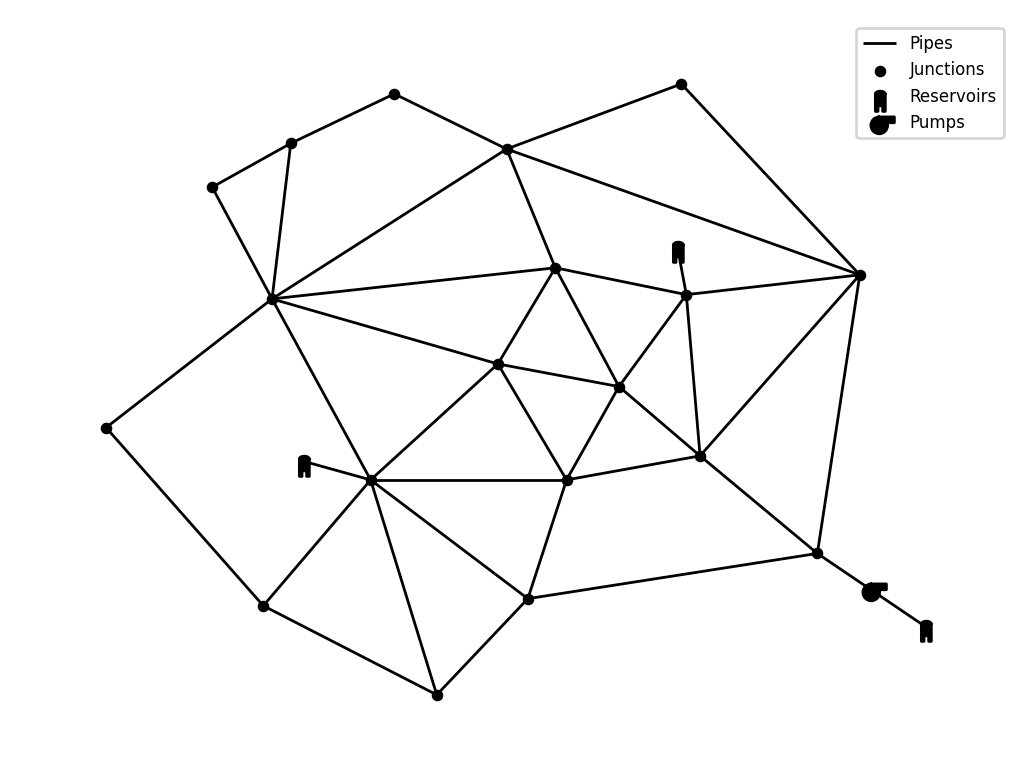
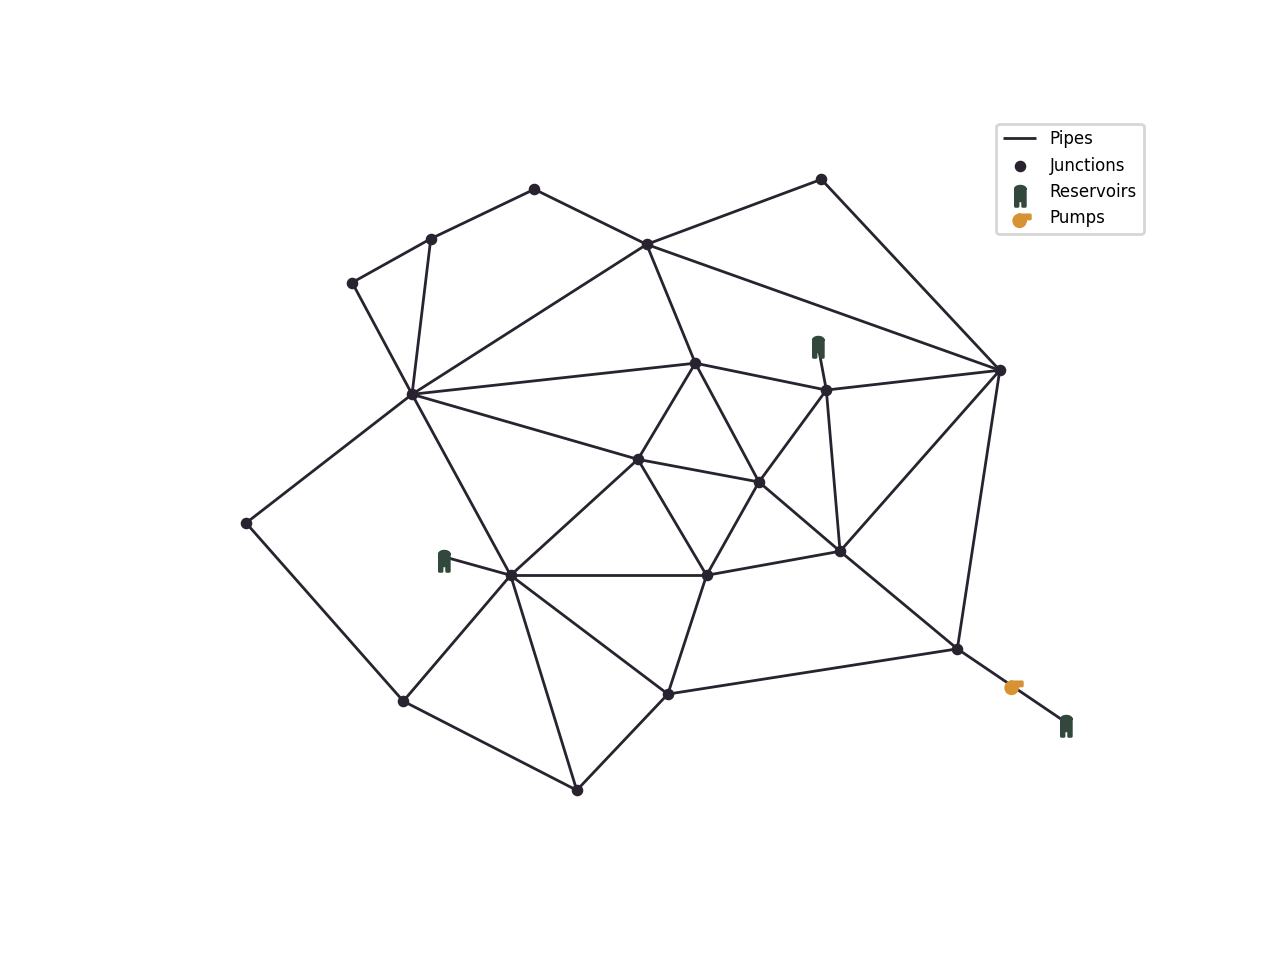
Adjusted documentation

diff --git a/epyt_flow/visualization/scenario_visualizer.py b/epyt_flow/visualization/scenario_visualizer.py
@@ -626,7 +626,7 @@ class ScenarioVisualizer:
     def color_links(
             self, data: Optional[Union[ScadaData, np.ndarray]] = None,
             parameter: str = 'flow_rate', statistic: str = 'mean',
-            pit: Optional[Union[int, Tuple[int]]] = None,
+            pit: Optional[Union[int, Tuple[int, int]]] = None,
             colormap: str = 'coolwarm',
             intervals: Optional[Union[int, List[Union[int, float]]]] = None,
             conversion: Optional[dict] = None,
@@ -825,7 +825,7 @@ class ScenarioVisualizer:
     def color_tanks(
             self, data: Optional[Union[ScadaData, np.ndarray]] = None,
             statistic: str = 'mean',
-            pit: Optional[Union[int, Tuple[int]]] = None,
+            pit: Optional[Union[int, Tuple[int, int]]] = None,
             intervals: Optional[Union[int, List[Union[int, float]]]] = None,
             colormap: str = 'viridis', show_colorbar: bool = False) -> None:
         """
@@ -909,7 +909,7 @@ class ScenarioVisualizer:
     def color_valves(
             self, data: Optional[Union[ScadaData, np.ndarray]] = None,
             statistic: str = 'mean',
-            pit: Optional[Union[int, Tuple[int]]] = None,
+            pit: Optional[Union[int, Tuple[int, int]]] = None,
             intervals: Optional[Union[int, List[Union[int, float]]]] = None,
             colormap: str = 'viridis', show_colorbar: bool = False) -> None:
         """
@@ -995,8 +995,8 @@ class ScenarioVisualizer:
     def resize_links(
             self, data: Optional[Union[ScadaData, np.ndarray]] = None,
             parameter: str = 'flow_rate', statistic: str = 'mean',
-            line_widths: Tuple[int] = (1, 2),
-            pit: Optional[Union[int, Tuple[int]]] = None,
+            line_widths: Tuple[int, int] = (1, 2),
+            pit: Optional[Union[int, Tuple[int, int]]] = None,
             intervals: Optional[Union[int, List[Union[int, float]]]] = None,
             conversion: Optional[dict] = None) -> None:
         """

diff --git a/tests/test_visualization.py b/tests/test_visualization.py
@@ -92,13 +92,13 @@ def test_animation_sensor_config_labels():
 
 def test_custom_table_animation(setup_simulator):
     timesteps = 50
-    nodes = 444
+    links = 444
 
     t = np.linspace(0, 2 * np.pi, timesteps)
 
-    frequencies = np.linspace(1, 3, nodes)
-    phases = np.linspace(0, np.pi, nodes)
-    amplitudes = np.linspace(0.5, 1.5, nodes)
+    frequencies = np.linspace(1, 3, links)
+    phases = np.linspace(0, np.pi, links)
+    amplitudes = np.linspace(0.5, 1.5, links)
 
     custom_data_table = np.array([a * np.sin(f * t + p) for f, p, a in
                                   zip(frequencies, phases, amplitudes)]).T
@@ -114,14 +114,6 @@ def test_custom_table_animation(setup_simulator):
         vis.show_animation()
     else:
         vis.show_animation(return_animation=True)
-
-
-def test_color_scheme(setup_simulator):
-    vis = ScenarioVisualizer(setup_simulator, color_scheme=epanet_colors)
-    if SHOW_PLOTS:
-        vis.show_plot()
-    else:
-        vis.show_plot(suppress_plot=True)
 
 
 def test_color_scheme_serialization(setup_simulator):

diff --git a/docs/tut.visualization.rst b/docs/tut.visualization.rst
@@ -4,22 +4,23 @@
 Visualization
 *************
 
-This guide explains how to visualize water distribution networks using the :class:`~epyt_flow.simulation.scenario_visualizer.ScenarioVisualizer` class.
+This guide explains how to visualize water distribution networks using the :class:`~epyt_flow.visualization.scenario_visualizer.ScenarioVisualizer` class.
 
-The :class:`~epyt_flow.simulation.scenario_visualizer.ScenarioVisualizer` class allows for generating plots, animations and customizations, according to the :class:`~epyt_flow.simulation.scada_data.ScadaData` generated by the :class:`~epyt_flow.simulation.scenario_simulator.ScenarioSimulator`.
+The :class:`~epyt_flow.visualization.scenario_visualizer.ScenarioVisualizer` class allows for generating plots, animations and customizations, according to the :class:`~epyt_flow.simulation.scada_data.ScadaData` generated by the :class:`~epyt_flow.simulation.scenario_simulator.ScenarioSimulator`.
 
 
 Setup and basic visualization
 -----------------------------
 
-In order to setup the :class:`~epyt_flow.simulation.scenario_visualizer.ScenarioVisualizer`, first a network configuration needs to be provided (here via :meth:`~epyt_flow.data.networks.load_anytown`), which then is given to the :class:`~epyt_flow.simulation.scenario_simulator.ScenarioSimulator`.
+In order to setup the :class:`~epyt_flow.visualization.scenario_visualizer.ScenarioVisualizer`, first a network configuration needs to be provided (here via :meth:`~epyt_flow.data.networks.load_anytown`), which then is given to the :class:`~epyt_flow.simulation.scenario_simulator.ScenarioSimulator`.
 
-The :class:`~epyt_flow.simulation.scenario_simulator.ScenarioSimulator` instance is then provided to the :class:`~epyt_flow.simulation.scenario_visualizer.ScenarioVisualizer`.
+The :class:`~epyt_flow.simulation.scenario_simulator.ScenarioSimulator` instance is then provided to the :class:`~epyt_flow.visualization.scenario_visualizer.ScenarioVisualizer`.
 
 .. code-block:: python
 
     from epyt_flow.data.networks import load_anytown
-    from epyt_flow.simulation import ScenarioSimulator, ScenarioVisualizer
+    from epyt_flow.simulation import ScenarioSimulator
+    from epyt_flow.visualization import ScenarioVisualizer
 
     # Load a network configuration and create a ScenarioSimulator with it
     network_config = load_anytown(verbose=False)
@@ -30,7 +31,7 @@ The :class:`~epyt_flow.simulation.scenario_simulator.ScenarioSimulator` instance
     vis.show_plot()
     wdn.close()
 
-The :meth:`~epyt_flow.simulation.scenario_visualizer.ScenarioVisualizer.show_plot` method visualizes the network:
+The :meth:`~epyt_flow.visualization.scenario_visualizer.ScenarioVisualizer.show_plot` method visualizes the network:
 
 .. image:: _static/anytown_plot.png
 
@@ -41,11 +42,11 @@ Customization
 
 The hydraulic components can be colored according to the simulation results by calling the corresponding methods:
 
-- :meth:`~epyt_flow.simulation.scenario_visualizer.ScenarioVisualizer.color_nodes`
-- :meth:`~epyt_flow.simulation.scenario_visualizer.ScenarioVisualizer.color_links`
-- :meth:`~epyt_flow.simulation.scenario_visualizer.ScenarioVisualizer.color_pumps`
-- :meth:`~epyt_flow.simulation.scenario_visualizer.ScenarioVisualizer.color_tanks`
-- :meth:`~epyt_flow.simulation.scenario_visualizer.ScenarioVisualizer.color_valves`
+- :meth:`~epyt_flow.visualization.scenario_visualizer.ScenarioVisualizer.color_nodes`
+- :meth:`~epyt_flow.visualization.scenario_visualizer.ScenarioVisualizer.color_links`
+- :meth:`~epyt_flow.visualization.scenario_visualizer.ScenarioVisualizer.color_pumps`
+- :meth:`~epyt_flow.visualization.scenario_visualizer.ScenarioVisualizer.color_tanks`
+- :meth:`~epyt_flow.visualization.scenario_visualizer.ScenarioVisualizer.color_valves`
 
 The :class:`~epyt_flow.simulation.scada_data.ScadaData` is generated inside the methods using the :class:`~epyt_flow.simulation.scenario_simulator.ScenarioSimulator` from initialization, but it can also be given an instance directly using `scada_data`.
 
@@ -106,20 +107,21 @@ If time_step is selected, the point in time must be provided via the `pit` param
 
 .. note::
 
-    Example: When calling :meth:`~epyt_flow.simulation.scenario_visualizer.ScenarioVisualizer.color_nodes` with the `parameter` pressure and the `statistic` max, each node in the network is colored according to its maximum pressure value during the simulation time.
+    Example: When calling :meth:`~epyt_flow.visualization.scenario_visualizer.ScenarioVisualizer.color_nodes` with the `parameter` pressure and the `statistic` max, each node in the network is colored according to its maximum pressure value during the simulation time.
 
 Here are two example calls:
 
 .. code-block:: python
 
     from epyt_flow.data.networks import load_anytown
-    from epyt_flow.simulation import ScenarioSimulator, ScenarioVisualizer
+    from epyt_flow.simulation import ScenarioSimulator
+    from epyt_flow.visualization import ScenarioVisualizer, black_colors
 
     # Load a network configuration and create a ScenarioSimulator with it
     network_config = load_anytown(verbose=False)
     wdn = ScenarioSimulator(scenario_config=network_config)
 
-    vis = ScenarioVisualizer(wdn)
+    vis = ScenarioVisualizer(wdn, color_scheme=black_colors)
     # Color nodes according to the pressure at time step 8
     vis.color_nodes(parameter='pressure', statistic='time_step', pit=8, colormap='autumn', show_colorbar=True)
     vis.show_plot()
@@ -130,13 +132,14 @@ Here are two example calls:
 .. code-block:: python
 
     from epyt_flow.data.networks import load_anytown
-    from epyt_flow.simulation import ScenarioSimulator, ScenarioVisualizer
+    from epyt_flow.simulation import ScenarioSimulator
+    from epyt_flow.visualization import ScenarioVisualizer, black_colors
 
     # Load a network configuration and create a ScenarioSimulator with it
     network_config = load_anytown(verbose=False)
     wdn = ScenarioSimulator(scenario_config=network_config)
 
-    vis = ScenarioVisualizer(wdn)
+    vis = ScenarioVisualizer(wdn, color_scheme=black_colors)
     # Color the pumps according to the maximum energy consumption during the simulation time
     vis.color_pumps(parameter='energy_consumption', statistic='max', show_colorbar=True)
     # Color the links according to the mean flow rate
@@ -148,13 +151,15 @@ Here are two example calls:
 
 If `show_colorbar` is true, a colorbar is generated and displayed in the plot.
 
+The black_colors color scheme sets all hydraulic components' default color to black.
+
 Method calls can be combined to adjust multiple components before rendering, such that each component is colored according to the given `parameter` and `statistic`. If multiple calls to the same component are made, only the last call is valid.
 
 Further customization options are the following:
 
 1. `colormap`: The `colormap` defines the range of colors used for displaying high and low values. It can be provided as an argument. The options are :class:`~matplotlib.colors.Colormap` names, such as `'viridis'`, `'coolwarm'` or `'autumn'`.
-2. :meth:`~epyt_flow.simulation.scenario_visualizer.ScenarioVisualizer.hide_nodes`: It is possible to hide the nodes by calling the method :meth:`~epyt_flow.simulation.scenario_visualizer.ScenarioVisualizer.hide_nodes`
-3. :meth:`~epyt_flow.simulation.scenario_visualizer.ScenarioVisualizer.resize_links`: Links can also be sized according to a `parameter` and `statistic` by calling the function :meth:`~epyt_flow.simulation.scenario_visualizer.ScenarioVisualizer.resize_links`. It can be called independently to :meth:`~epyt_flow.simulation.scenario_visualizer.ScenarioVisualizer.color_links` and they can be combined.
+2. :meth:`~epyt_flow.visualization.scenario_visualizer.ScenarioVisualizer.hide_nodes`: It is possible to hide the nodes by calling the method :meth:`~epyt_flow.visualization.scenario_visualizer.ScenarioVisualizer.hide_nodes`
+3. :meth:`~epyt_flow.visualization.scenario_visualizer.ScenarioVisualizer.resize_links`: Links can also be sized according to a `parameter` and `statistic` by calling the function :meth:`~epyt_flow.visualization.scenario_visualizer.ScenarioVisualizer.resize_links`. It can be called independently to :meth:`~epyt_flow.visualization.scenario_visualizer.ScenarioVisualizer.color_links` and they can be combined.
 
 Animation
 ---------
@@ -163,23 +168,42 @@ It is possible to animate the values over the time steps. For this, the followin
 
 1. Set the `statistic` to `'time_step'`
 2. Set the `pit` to a tuple of two values: (start_time_step, end_time_step)
-3. Call :meth:`~epyt_flow.simulation.scenario_visualizer.ScenarioVisualizer.show_animation` instead of :meth:`~epyt_flow.simulation.scenario_visualizer.ScenarioVisualizer.show_plot`
+3. Call :meth:`~epyt_flow.visualization.scenario_visualizer.ScenarioVisualizer.show_animation` instead of :meth:`~epyt_flow.visualization.scenario_visualizer.ScenarioVisualizer.show_plot`
 
-This code shows an animation of the links by coloring and sizing them using the flow rate over time.
+This code shows an animation of the links by coloring and sizing them using generated custom data over time. The pit (0, -1) animates all available time steps.
 
 .. code-block:: python
 
+    import numpy as np
+
     from epyt_flow.data.networks import load_anytown
-    from epyt_flow.simulation import ScenarioSimulator, ScenarioVisualizer
+    from epyt_flow.simulation import ScenarioSimulator
+    from epyt_flow.visualization import ScenarioVisualizer, black_colors
 
     # Load a network configuration and create a ScenarioSimulator with it
     network_config = load_anytown(verbose=False)
     wdn = ScenarioSimulator(scenario_config=network_config)
 
-    vis = ScenarioVisualizer(wdn)
-    # Visualize the flow rate from time step 1 to time step 40 as link color and link size
-    vis.color_links(parameter='flow_rate', statistic='time_step', pit=(1, 40))
-    vis.resize_links(parameter='flow_rate', statistic='time_step', pit=(1, 40), line_widths=(1, 3))
+    # Generate custom data for better demonstration
+    timesteps = 50
+    links = 41
+    t = np.linspace(0, 2 * np.pi, timesteps)
+
+    frequencies = np.linspace(1, 3, links)
+    phases = np.linspace(0, np.pi, links)
+    amplitudes = np.linspace(0.5, 1.5, links)
+
+    custom_data_table = np.array([a * np.sin(f * t + p) for f, p, a in
+                                  zip(frequencies, phases, amplitudes)]).T
+
+    # Create new ScenarioVisualizer with black color scheme
+    vis = ScenarioVisualizer(wdn, color_scheme=black_colors)
+
+    # Visualize the custom data from time step 0 to the last time step (-1) as
+    # link color and link size
+    vis.color_links(data=custom_data_table, parameter='custom_data', statistic='time_step', pit=(0, -1))
+    vis.resize_links(data=custom_data_table, parameter='custom_data', statistic='time_step', pit=(0, -1), line_widths=(1, 3))
+
     # Hide the nodes such that only the links remain visible
     vis.hide_nodes()
     vis.show_animation()
